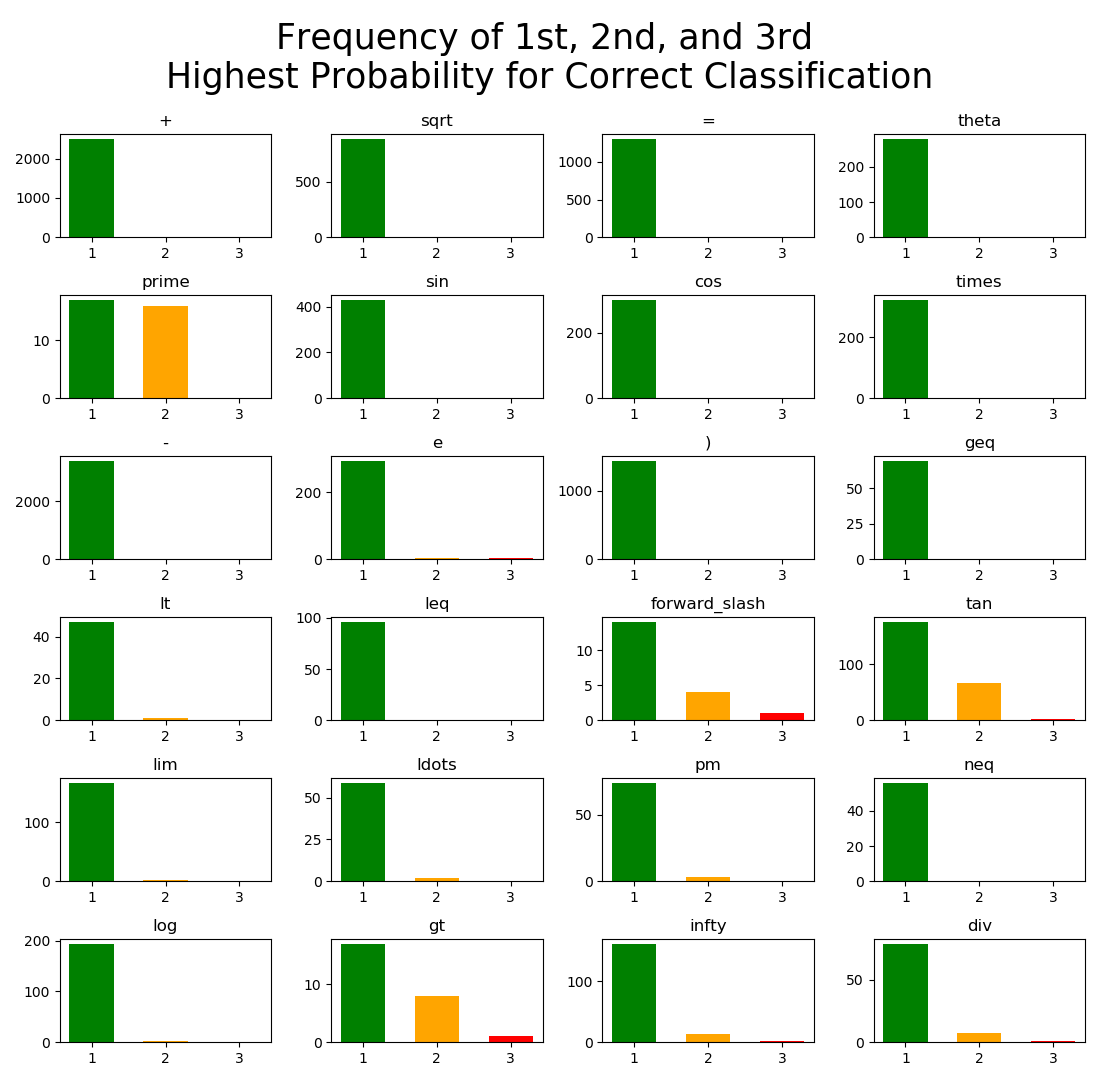
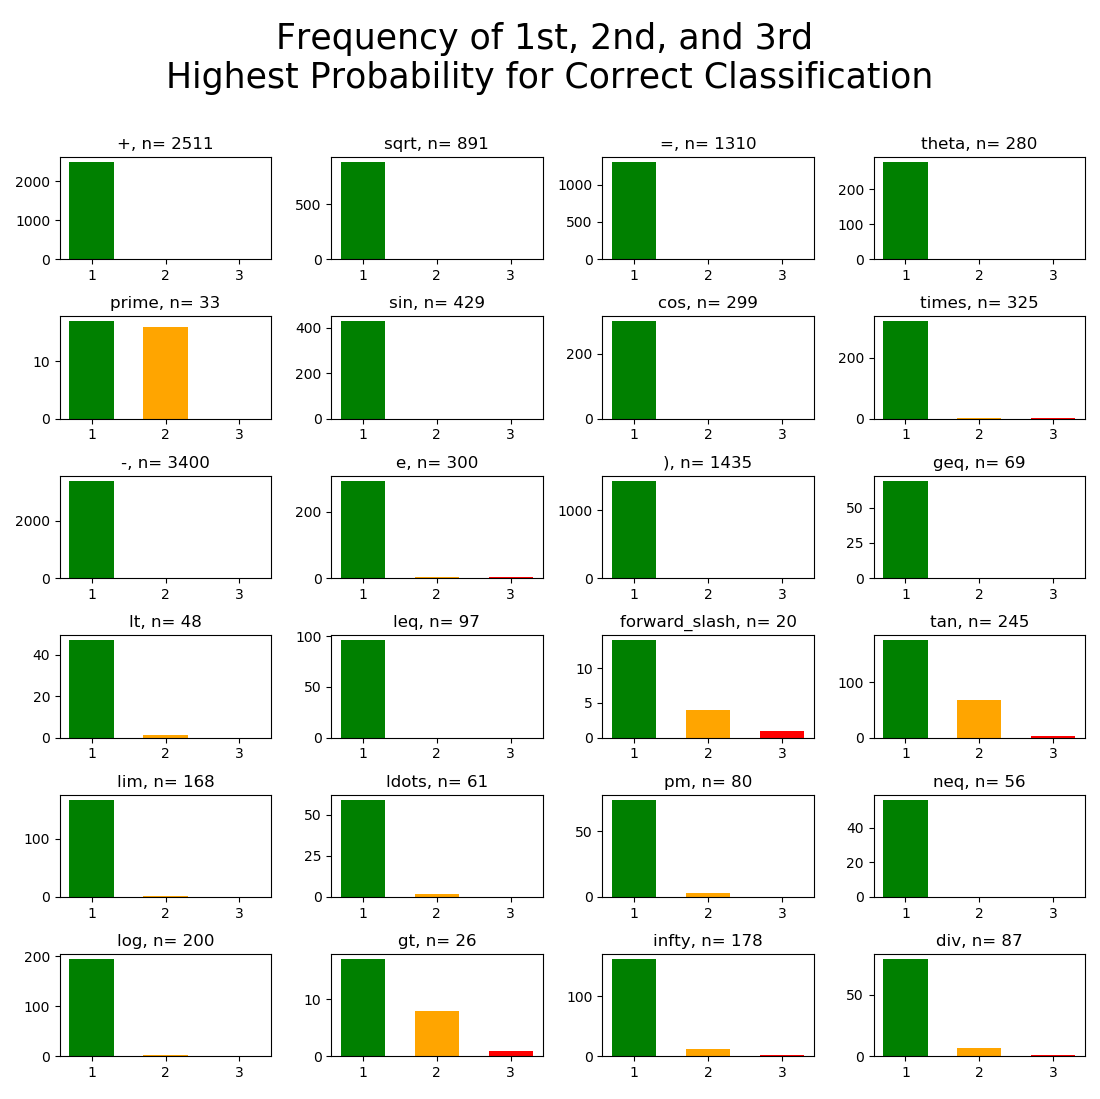
better freqfigure with n=sample size in test set

diff --git a/src/eda.py b/src/eda.py
@@ -100,7 +100,6 @@ def plot_class_distribution(class_list):
 
 # - - - WHERE DOES THE MODEL GO WRONG? WHAT CHARS CAN WE CONSISTANTLY RECOGNIZE? 
 
-# model = load_model('../models/simpleCNN-2020-02-04T:13:14:02.h5')
 model_id = 'simpleCNN-2020-02-05T:20:53:54'#.h5'
 model = load_model(f'../models/{model_id}.h5')
 
@@ -307,40 +306,8 @@ def plot_imgrows(rows,cols,categories, data_directory,title,imsize=80,):
     plt.show()
     return ax 
 # plot_imgrows(6, 10, categories,data_directory, 'Sample of Some Classes Trained in CNN Model',imsize=50)
-'''
-fig.tight_layout(
-    renderer=None,
-    pad=1.08,
-    h_pad=None,
-    w_pad=None,
-    rect=None,
-)
-'''
-#!TODO: TURN THE FOLLOWING INTO A FUNCTION AND USE FOR THE WORST OFFENDERS AND THE CLASS-SET TRAINED ON. 
-# fig, axs = plt.subplots(5, 20,figsize=(15,6))
-# for c in range(len(worst_misclassed)-1):
-#     for i in range(20):
-#         class_path = os.path.join(data_directory, worst_misclassed[c])
-#         pickone = random.choice(os.listdir(class_path))
-#         path_to_one = os.path.join(class_path,pickone)
-#         im_array = cv2.imread(path_to_one,cv2.IMREAD_GRAYSCALE) 
-#         im_array_resized = cv2.resize(im_array, (80,80))
-#         axs[c, i].imshow(im_array_resized,cmap='gist_gray')
-#         axs[c, i].set_xticks([]); axs[c,i].set_yticks([])
-#         axs[c, 0].set_ylabel([c])
-# fig.text(x=0.31, y=0.01, s='Random samples from the classes most misclassified', \
-#     color='#888888', ha='center', va='bottom', fontsize=20)
-# plt.suptitle("Top 5 Worst Offenders",fontsize=20)
-# plt.show()
 
-
-
-# - - - What are the common misclassifications? ie: 'pi' is commonly mistaken for 'v' 
-# - - - What is the probability difference between the false classification and the true label? 
-
-# _,result = evaluate_model(X_test, y_test, categories, model, limit=-1, return_prediction_array=True)
-
-
+# - - - HOW OFTEN ARE WE CORRECT ON THE SECOND OR THIRD GUESS, IF NOT THE FIRST? 
 count_dict = class_prob_dist(y_test, yhat_probs,y_test_str, categories)
 
 # --- get the data
@@ -349,14 +316,20 @@ guess2 = np.array(list(count_dict.values()))[:,1]
 guess3 = np.array(list(count_dict.values()))[:,2]
 labels = list(count_dict.keys())
 
-# --- the plot – left then right
+# --- the plot 
 fig = plt.figure(figsize=(11,10))
 fig.suptitle('Frequency of 1st, 2nd, and 3rd \nHighest Probability for Correct Classification',fontsize=25)
+total_test_data_dict = dict()
+for c in y_test_classes:
+    if c not in total_test_data_dict:
+        total_test_data_dict[c] = 0 
+    total_test_data_dict[c]+=1
+
 
 for i in range(len(labels)):
     ax = fig.add_subplot(6,4,i+1)
-    ax.bar(np.arange(3), list(count_dict.values())[i], width=.6, color=['green','orange','red'])#,   label=['1','2','3']) 
-    ax.set_title(labels[i])
+    ax.bar(np.arange(3), list(count_dict.values())[i], width=.6, color=['green','orange','red']) 
+    ax.set_title(f"{labels[i]}, n= {total_test_data_dict[labels[i]]}")
     ax.set_xticklabels(['1','2','3'])
     ax.set_xticks([0,1,2])
 fig.tight_layout()
